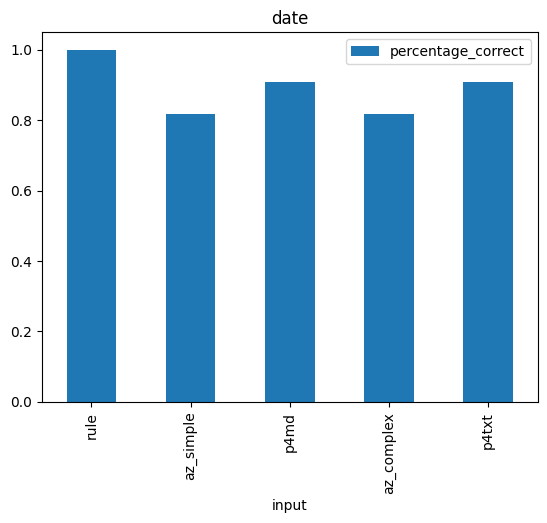
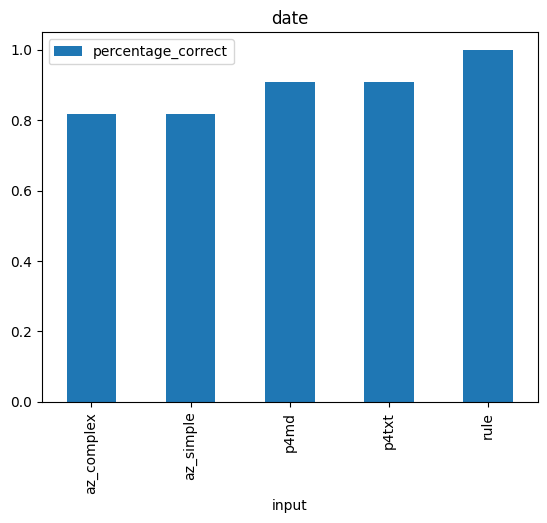
ADD: latest analysis results

diff --git a/analysis.py b/analysis.py
@@ -19,26 +19,26 @@ def rule_based_all() -> pd.DataFrame:
     return df
 
 
-def free_text_to_date(text):
-    # from free text, extract anything in the forma %Y-%m-%d
-    matches = re.findall(r"\d{4}-\d{2}-\d{2}", str(text))
-    if not matches:
-        return ""
-    dates = [
-        pd.to_datetime(match, format="%Y-%m-%d") for i, match in enumerate(matches)
-    ]
-    # return the latest date
-    return max(dates) if dates else None
+# def free_text_to_date(text):
+#     # from free text, extract anything in the forma %Y-%m-%d
+#     matches = re.findall(r"\d{4}-\d{2}-\d{2}", str(text))
+#     if not matches:
+#         return ""
+#     dates = [
+#         pd.to_datetime(match, format="%Y-%m-%d") for i, match in enumerate(matches)
+#     ]
+#     # return the latest date
+#     return max(dates) if dates else None
 
 
-def free_text_to_label(text):
-    # if Not reported in text, return that
-    if "not reported" in text.lower():
-        return "Not reported"
-    if "true" in text.lower():
-        return "True"
-    if "false" in text.lower():
-        return "False"
+# def free_text_to_label(text):
+#     # if Not reported in text, return that
+#     if "not reported" in text.lower():
+#         return "Not reported"
+#     if "true" in text.lower():
+#         return "True"
+#     if "false" in text.lower():
+#         return "False"
 
 
 def truth_and_rule_based() -> pd.DataFrame:
@@ -157,7 +157,7 @@ def date_metrics(df) -> pd.DataFrame:
 
 
 def prime_applicable_metrics(df):
-    metrics_df = pd.DataFrame([], columns=["input", "precision", "recall", "f1", "mcc"])
+    metrics_df = pd.DataFrame([], columns=["input", "precision", "recall", "f1"])
     col_base = "eu_prime_initial"
     for name, truth, pred in compare_generator(df, col_base):
 
@@ -171,8 +171,6 @@ def prime_applicable_metrics(df):
             "precision": tp / (tp + fp),
             "recall": tp / (tp + fn),
             "f1": 2 * tp / (2 * tp + fp + fn),
-            "mcc": (tp * tn - fp * fn)
-            / np.sqrt((tp + fp) * (tp + fn) * (tn + fp) * (tn + fn)),
         }
         metrics_df = pd.concat(
             [metrics_df, pd.DataFrame.from_dict(metrics, orient="index").T]
@@ -181,7 +179,7 @@ def prime_applicable_metrics(df):
 
 
 def prime_status_metrics(df):
-    metrics_df = pd.DataFrame([], columns=["input", "precision", "recall", "f1", "mcc"])
+    metrics_df = pd.DataFrame([], columns=["input", "precision", "recall", "f1"])
     col_base = "eu_prime_initial"
     for name, truth, pred in compare_generator(df, col_base):
         truth = np.array(truth)
@@ -189,6 +187,8 @@ def prime_status_metrics(df):
         mask = truth != "Not reported"  # only ones where status is applicable
         truth = truth[mask]
         pred = pred[mask]
+        # for pred, replace any "Not reported" with False
+        pred = np.where(pred == "Not reported", "True", pred)
         # the values are boolean strings, get the metrics and add them to the dataframe as a row with concat
         tp = np.sum((truth == "True") & (pred == "True"))
         tn = np.sum((truth == "False") & (pred == "False"))
@@ -200,8 +200,6 @@ def prime_status_metrics(df):
             "precision": tp / (tp + fp),
             "recall": tp / (tp + fn),
             "f1": 2 * tp / (2 * tp + fp + fn),
-            "mcc": (tp * tn - fp * fn)
-            / np.sqrt((tp + fp) * (tp + fn) * (tn + fp) * (tn + fn)),
         }
         metrics_df = pd.concat(
             [metrics_df, pd.DataFrame.from_dict(metrics, orient="index").T]
@@ -219,6 +217,8 @@ def generate_plots(df):
     for key, value in metrics.items():
         value.to_csv(f"results/{key}_metrics.csv", index=False)
     for key, value in metrics.items():
+        # sort columns on alphabetical order
+        value = value.sort_values("input")
         labels = value["input"].apply(lambda x: x.split(key)[-1])
         value.plot.bar(x="input", title=key)
         plt.savefig(f"results/{key}_metrics.png", bbox_inches="tight")
@@ -229,6 +229,15 @@ def main():
     # df = add_in_random(df)
     df = add_in_results(truth_and_rule_based())
     df.to_csv("results/all.csv", index=False)
+    print(
+        df[
+            [
+                "chmp_opinion_date_truth",
+                "chmp_opinion_date_az_complex",
+                "chmp_opinion_date_az_simple",
+            ]
+        ]
+    )
     generate_plots(df)
 
 
